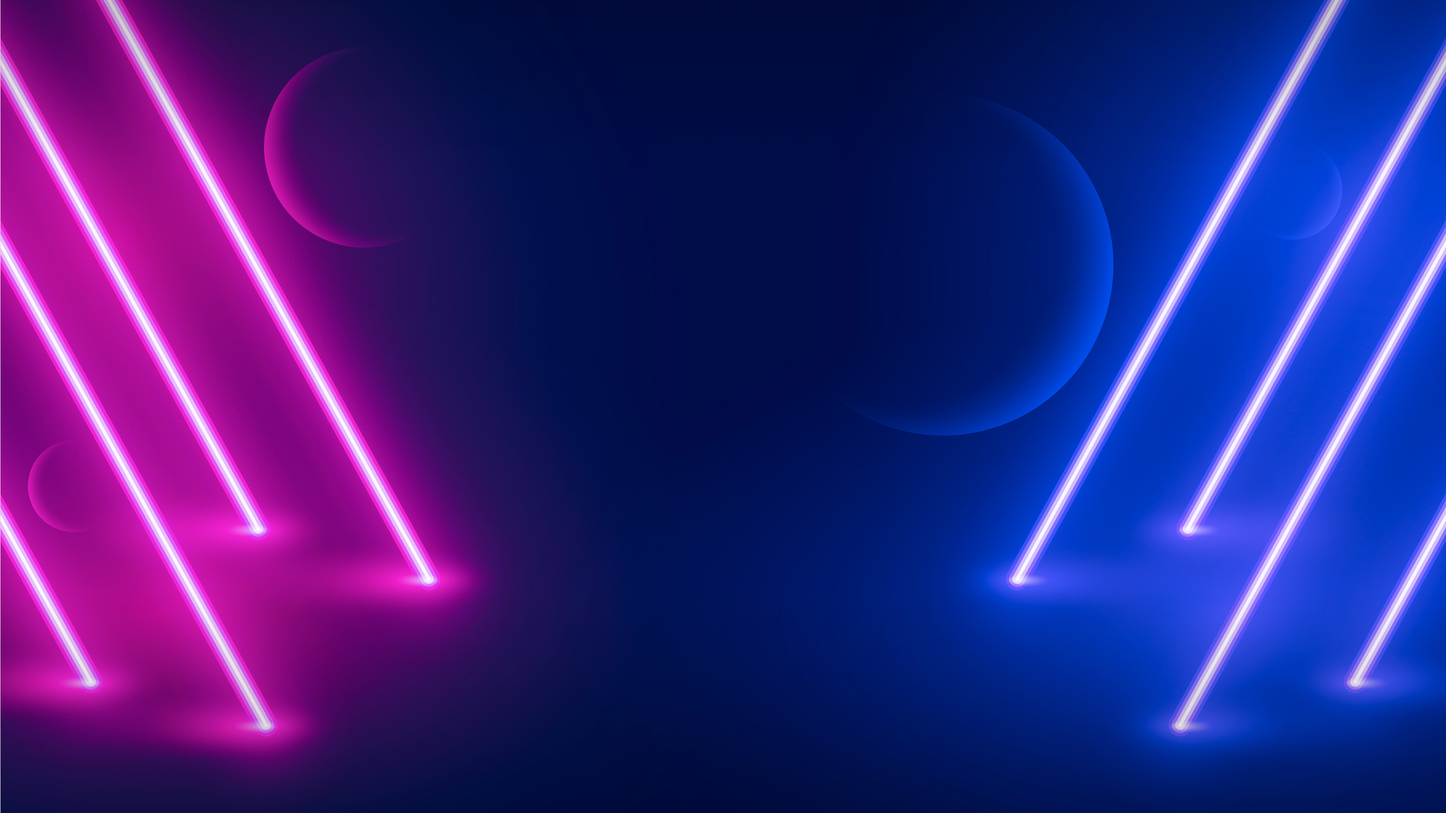
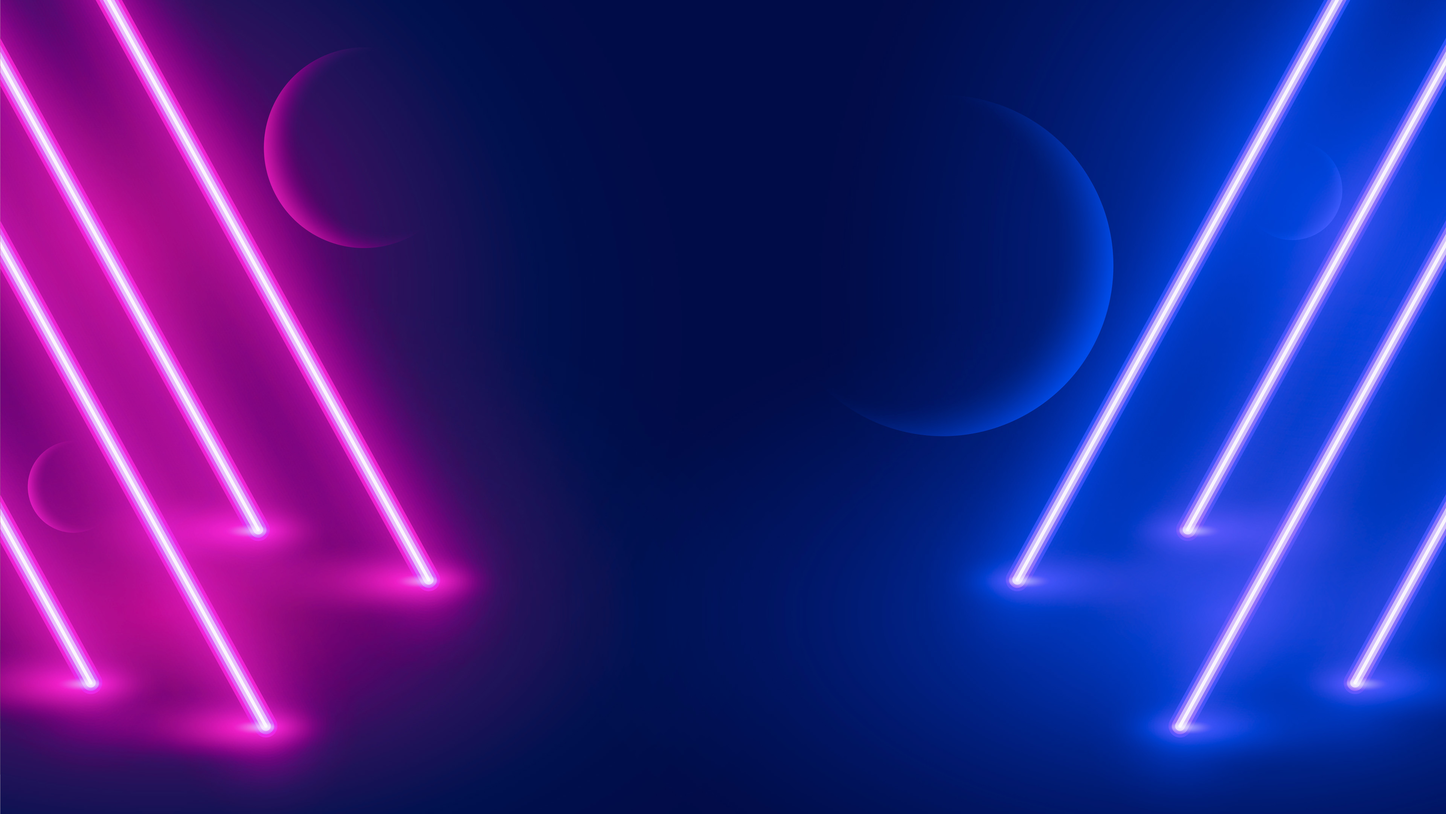
change bg

diff --git a/build/style.min.css b/build/style.min.css
@@ -1,1 +1,1 @@
-input,input::placeholder{font-family:Gilroy}body{color:#FCF2FE;font-size:16px;line-height:1.5;font-family:Gilroy;background-color:#fff;display:flex;flex-direction:column;min-height:100vh;padding:0;margin:0;overflow-x:hidden}@media (min-width:769px){body{font-size:24px}}*,:after,:before{box-sizing:border-box}::selection{color:#000;background:#F122D3}p{margin:0 0 8px}a,a:hover{color:#F122D3}em,i{font-weight:400}img{max-width:100%;display:block}ol,ul{padding:0;margin:0;counter-reset:li}ol li,ul li{list-style:none;position:relative;padding-left:30px}ol li:before,ul li:before{content:counter(li,decimal) ".";counter-increment:li;margin-left:0;margin-right:0;font-weight:700;color:#FCF2FE;position:absolute;top:0;left:0}ul li::before{content:"";background-color:#F122D3;border-radius:50%;width:10px;min-width:10px;height:10px;top:7px}.title_1,.title_2,.title_3,.title_4,.title_5,.title_6,h1,h2,h3,h4,h5,h6{line-height:1;color:#fff;font-weight:800;font-family:Gilroy;margin:0 0 8px}.title_1,h1{font-size:50px;margin:0 0 20px}@media (min-width:769px){.title_1,h1{font-size:64px;margin:0 0 45px}}.title_2,h2{font-size:24px}.title_3,h3{font-size:20px}.title_4,h4{font-size:18px}.title_5,h5{font-size:16px}.title_6,h6{font-size:14px}.btn{display:inline-flex;justify-content:center;align-items:center;cursor:pointer;padding:17px 35.5px;font-weight:700;font-size:18px;font-family:Gilroy;text-decoration:none;border:1px solid rgba(255,255,255,.06);line-height:1.1;background:linear-gradient(214.25deg,rgba(0,0,0,.224) 6.73%,rgba(0,0,0,.084) 100.28%);border-radius:90px;text-shadow:0 -2.25px 50.57px rgba(19,235,214,.75);transition:color .15s ease-in-out,background-color .15s ease-in-out,border-color .15s ease-in-out,box-shadow .15s ease-in-out;animation:pulse 2s infinite cubic-bezier(0.6,0,0,1);box-shadow:0 0 rgba(241,34,211,.3)}.btn:disabled{pointer-events:none;opacity:.3}.btn:hover{background-color:#F122D3;color:#fff;border-color:#F122D3}@media (min-width:769px){.btn{font-size:32px;padding:30px 45px;font-weight:800}}@keyframes pulse{100%{box-shadow:0 0 0 22px rgba(241,34,211,0)}}.btn-primary{color:#fff;background:#F122D3}.btn-primary:hover{color:#F122D3;background-color:transparent;border-color:#F122D3}.btn-link{color:#212121;background-color:#fff}.btn-link:hover{color:#fff;background-color:#F122D3}.scroll-x{overflow:auto}.scroll-x::-webkit-scrollbar-thumb{background-color:#F122D3;border-radius:5px}.scroll-x::-webkit-scrollbar{height:1px;background-color:#DFDCDC;border:0 solid #DFDCDC;border-radius:5px}.scroll::-webkit-scrollbar{width:3px;border-radius:5px}.scroll::-webkit-scrollbar-thumb{background-color:#F122D3;background-clip:padding-box;border:0 solid #DFDCDC;border-radius:5px}.scroll::-webkit-scrollbar-thumb:hover{background-color:#F122D3;cursor:pointer}.scroll::-webkit-scrollbar-track{border-radius:5px;background-color:#DFDCDC;cursor:pointer}::-webkit-scrollbar-button{background-color:transparent;display:none}.scroll{scrollbar-face-color:#F122D3;scrollbar-shadow-color:#DFDCDC;scrollbar-highlight-color:#DFDCDC;scrollbar-color:#F122D3 #DFDCDC;padding-right:15px;overflow-x:hidden}.scroll_x{overflow-x:scroll;overflow-y:hidden;padding-right:0;padding-bottom:40px}@media (min-width:1281px){.scroll_x{overflow-x:hidden}}.scroll_x::-webkit-scrollbar{height:2px;max-width:300px}.scroll-heidden::-webkit-scrollbar{width:0}.container{width:100%;padding:0 20px;max-width:1540px;margin:0 auto}.container_xm{max-width:1240px}.container_sm{max-width:1340px}.container_xl{max-width:1645px}.container_lg{max-width:1640px}.container_df{display:flex;justify-content:space-between;flex-wrap:wrap}.wrapper{overflow:hidden;display:flex;flex-direction:column;justify-content:space-between;min-height:100%;flex:auto;overflow-y:auto;background-image:url(./assets/img/bg@2x.jpg);background-size:cover;background-repeat:no-repeat;background-position:50% 0}.btn-holder{text-align:center}@font-face{font-family:Gilroy;src:url(./assets/fonts/Gilroy-Bold.ttf) format("truetype");font-weight:700;font-style:normal;font-display:swap}@font-face{font-family:Gilroy;src:url(./assets/fonts/Gilroy-Extrabold.ttf) format("truetype");font-weight:800;font-style:normal;font-display:swap}.header{padding:41px 16px 0}.logo-holder{max-width:140px;margin:0 auto}@media (min-width:769px){.logo-holder{max-width:200px}}@media screen and (max-width:1024px){.title_1,h1{font-size:24px}.title_2,h2{font-size:20px}.title_3,h3{font-size:18px}.title_4,h4{font-size:16px}.title_5,h5{font-size:14px}.title_6,h6{font-size:12px}}@media screen and (max-width:767px){.breadcrumb{padding:25px 15px 15px 0}}.main{padding:30px 16px;flex:1;display:flex;flex-direction:column;align-items:center;justify-content:center}@media (min-width:769px){.main{padding:45px 16px}}.subtext{text-align:center;line-height:1.3}.subtext p{margin:0 0 15px}.subtext p:nth-of-type(2){max-width:532px;margin:0 auto 30px}@media (min-width:769px){.subtext p{margin:0 0 30px}}.help-list{display:flex;justify-content:space-between;gap:15px;width:100%;margin:0 0 30px;flex-wrap:wrap}.help-list .list-item{text-align:center;padding:20px 10px;width:calc(50% - 8px);border-radius:8px;border:1px solid rgba(255,255,255,.1);backdrop-filter:blur(16.91px);box-shadow:0 3.62px 4.83px 0 #00029}.help-list .list-item img{max-width:50px;width:100%;margin:0 auto 15px;box-shadow:0 16px 76px 0 rgba(0,0,0,.16)}.help-list .title{font-size:16px;display:block;font-weight:700}@media (min-width:1025px){.help-list{justify-content:center;gap:75px;margin:0 0 45px;flex-wrap:nowrap}.help-list .list-item{max-width:280px}}@media (min-width:769px){.help-list .list-item{padding:38px 10px}.help-list .list-item img{max-width:100px;margin:0 auto 27px}.help-list .title{font-size:20px}}.help-list+.subtext{max-width:794px}
+input,input::placeholder{font-family:Gilroy}body{color:#FCF2FE;font-size:16px;line-height:1.5;font-family:Gilroy;background-color:#fff;display:flex;flex-direction:column;min-height:100vh;padding:0;margin:0;overflow-x:hidden}@media (min-width:769px){body{font-size:24px}}*,:after,:before{box-sizing:border-box}::selection{color:#000;background:#F122D3}p{margin:0 0 8px}a,a:hover{color:#F122D3}em,i{font-weight:400}img{max-width:100%;display:block}ol,ul{padding:0;margin:0;counter-reset:li}ol li,ul li{list-style:none;position:relative;padding-left:30px}ol li:before,ul li:before{content:counter(li,decimal) ".";counter-increment:li;margin-left:0;margin-right:0;font-weight:700;color:#FCF2FE;position:absolute;top:0;left:0}ul li::before{content:"";background-color:#F122D3;border-radius:50%;width:10px;min-width:10px;height:10px;top:7px}.title_1,.title_2,.title_3,.title_4,.title_5,.title_6,h1,h2,h3,h4,h5,h6{line-height:1;color:#fff;font-weight:800;font-family:Gilroy;margin:0 0 8px}.title_1,h1{font-size:50px;margin:0 0 20px}@media (min-width:769px){.title_1,h1{font-size:64px;margin:0 0 45px}}.title_2,h2{font-size:24px}.title_3,h3{font-size:20px}.title_4,h4{font-size:18px}.title_5,h5{font-size:16px}.title_6,h6{font-size:14px}.btn{display:inline-flex;justify-content:center;align-items:center;cursor:pointer;padding:17px 35.5px;font-weight:700;font-size:18px;font-family:Gilroy;text-decoration:none;border:1px solid rgba(255,255,255,.06);line-height:1.1;background:linear-gradient(214.25deg,rgba(0,0,0,.224) 6.73%,rgba(0,0,0,.084) 100.28%);border-radius:90px;text-shadow:0 -2.25px 50.57px rgba(19,235,214,.75);transition:color .15s ease-in-out,background-color .15s ease-in-out,border-color .15s ease-in-out,box-shadow .15s ease-in-out;animation:pulse 2s infinite cubic-bezier(0.6,0,0,1);box-shadow:0 0 rgba(241,34,211,.3)}.btn:disabled{pointer-events:none;opacity:.3}.btn:hover{background-color:#F122D3;color:#fff;border-color:#F122D3}@media (min-width:769px){.btn{font-size:32px;padding:30px 45px;font-weight:800}}@keyframes pulse{100%{box-shadow:0 0 0 22px rgba(241,34,211,0)}}.btn-primary{color:#fff;background:#F122D3}.btn-primary:hover{color:#F122D3;background-color:transparent;border-color:#F122D3}.btn-link{color:#212121;background-color:#fff}.btn-link:hover{color:#fff;background-color:#F122D3}.scroll-x{overflow:auto}.scroll-x::-webkit-scrollbar-thumb{background-color:#F122D3;border-radius:5px}.scroll-x::-webkit-scrollbar{height:1px;background-color:#DFDCDC;border:0 solid #DFDCDC;border-radius:5px}.scroll::-webkit-scrollbar{width:3px;border-radius:5px}.scroll::-webkit-scrollbar-thumb{background-color:#F122D3;background-clip:padding-box;border:0 solid #DFDCDC;border-radius:5px}.scroll::-webkit-scrollbar-thumb:hover{background-color:#F122D3;cursor:pointer}.scroll::-webkit-scrollbar-track{border-radius:5px;background-color:#DFDCDC;cursor:pointer}::-webkit-scrollbar-button{background-color:transparent;display:none}.scroll{scrollbar-face-color:#F122D3;scrollbar-shadow-color:#DFDCDC;scrollbar-highlight-color:#DFDCDC;scrollbar-color:#F122D3 #DFDCDC;padding-right:15px;overflow-x:hidden}.scroll_x{overflow-x:scroll;overflow-y:hidden;padding-right:0;padding-bottom:40px}@media (min-width:1281px){.scroll_x{overflow-x:hidden}}.scroll_x::-webkit-scrollbar{height:2px;max-width:300px}.scroll-heidden::-webkit-scrollbar{width:0}.container{width:100%;padding:0 20px;max-width:1540px;margin:0 auto}.container_xm{max-width:1240px}.container_sm{max-width:1340px}.container_xl{max-width:1645px}.container_lg{max-width:1640px}.container_df{display:flex;justify-content:space-between;flex-wrap:wrap}.wrapper{overflow:hidden;display:flex;flex-direction:column;justify-content:space-between;min-height:100%;flex:auto;overflow-y:auto;background-image:url(./assets/img/bg_mobile@2x.jpg);background-size:cover;background-repeat:no-repeat;background-position:50% 0}@media (min-width:769px){.wrapper{background-image:url(./assets/img/bg@2x.jpg)}}.btn-holder{text-align:center}@font-face{font-family:Gilroy;src:url(./assets/fonts/Gilroy-Bold.ttf) format("truetype");font-weight:700;font-style:normal;font-display:swap}@font-face{font-family:Gilroy;src:url(./assets/fonts/Gilroy-Extrabold.ttf) format("truetype");font-weight:800;font-style:normal;font-display:swap}.header{padding:41px 16px 0}.logo-holder{max-width:140px;margin:0 auto}@media (min-width:769px){.logo-holder{max-width:200px}}@media screen and (max-width:1024px){.title_1,h1{font-size:24px}.title_2,h2{font-size:20px}.title_3,h3{font-size:18px}.title_4,h4{font-size:16px}.title_5,h5{font-size:14px}.title_6,h6{font-size:12px}}@media screen and (max-width:767px){.breadcrumb{padding:25px 15px 15px 0}}.main{padding:30px 16px;flex:1;display:flex;flex-direction:column;align-items:center;justify-content:center}@media (min-width:769px){.main{padding:45px 16px}}.subtext{text-align:center;line-height:1.3}.subtext p{margin:0 0 15px}.subtext p:nth-of-type(2){max-width:532px;margin:0 auto 30px}@media (min-width:769px){.subtext p{margin:0 0 30px}}.help-list{display:flex;justify-content:space-between;gap:15px;width:100%;margin:0 0 30px;flex-wrap:wrap}.help-list .list-item{text-align:center;padding:20px 10px;width:calc(50% - 8px);border-radius:8px;border:1px solid rgba(255,255,255,.1);backdrop-filter:blur(16.91px);box-shadow:0 3.62px 4.83px 0 #00029}.help-list .list-item img{max-width:50px;width:100%;margin:0 auto 15px;box-shadow:0 16px 76px 0 rgba(0,0,0,.16)}.help-list .title{font-size:16px;display:block;font-weight:700}@media (min-width:1025px){.help-list{justify-content:center;gap:75px;margin:0 0 45px;flex-wrap:nowrap}.help-list .list-item{max-width:280px}}@media (min-width:769px){.help-list .list-item{padding:38px 10px}.help-list .list-item img{max-width:100px;margin:0 auto 27px}.help-list .title{font-size:20px}}.help-list+.subtext{max-width:794px}

diff --git a/build/style.css b/build/style.css
@@ -286,10 +286,13 @@ h6,
   min-height: 100%;
   flex: auto;
   overflow-y: auto;
-  background-image: url("./assets/img/bg@2x.jpg");
+  background-image: url("./assets/img/bg_mobile@2x.jpg");
   background-size: cover;
   background-repeat: no-repeat;
   background-position: 50% 0; }
+  @media (min-width: 769px) {
+    .wrapper {
+      background-image: url("./assets/img/bg@2x.jpg"); } }
 
 .btn-holder {
   text-align: center; }

diff --git a/dev/sass/_general.scss b/dev/sass/_general.scss
@@ -367,14 +367,15 @@ h6,
     min-height: 100%;
 	flex: auto;
     overflow-y: auto;
-	background-image: url('./assets/img/bg@2x.jpg');
+	background-image: url('./assets/img/bg_mobile@2x.jpg');
 	background-size: cover;
 	background-repeat: no-repeat;
 	background-position: 50% 0;
+
+	@include media('>tablet') {
+		background-image: url('./assets/img/bg@2x.jpg');
+	}
 }
-
-
-
 
 .btn-holder {
 	text-align: center;
